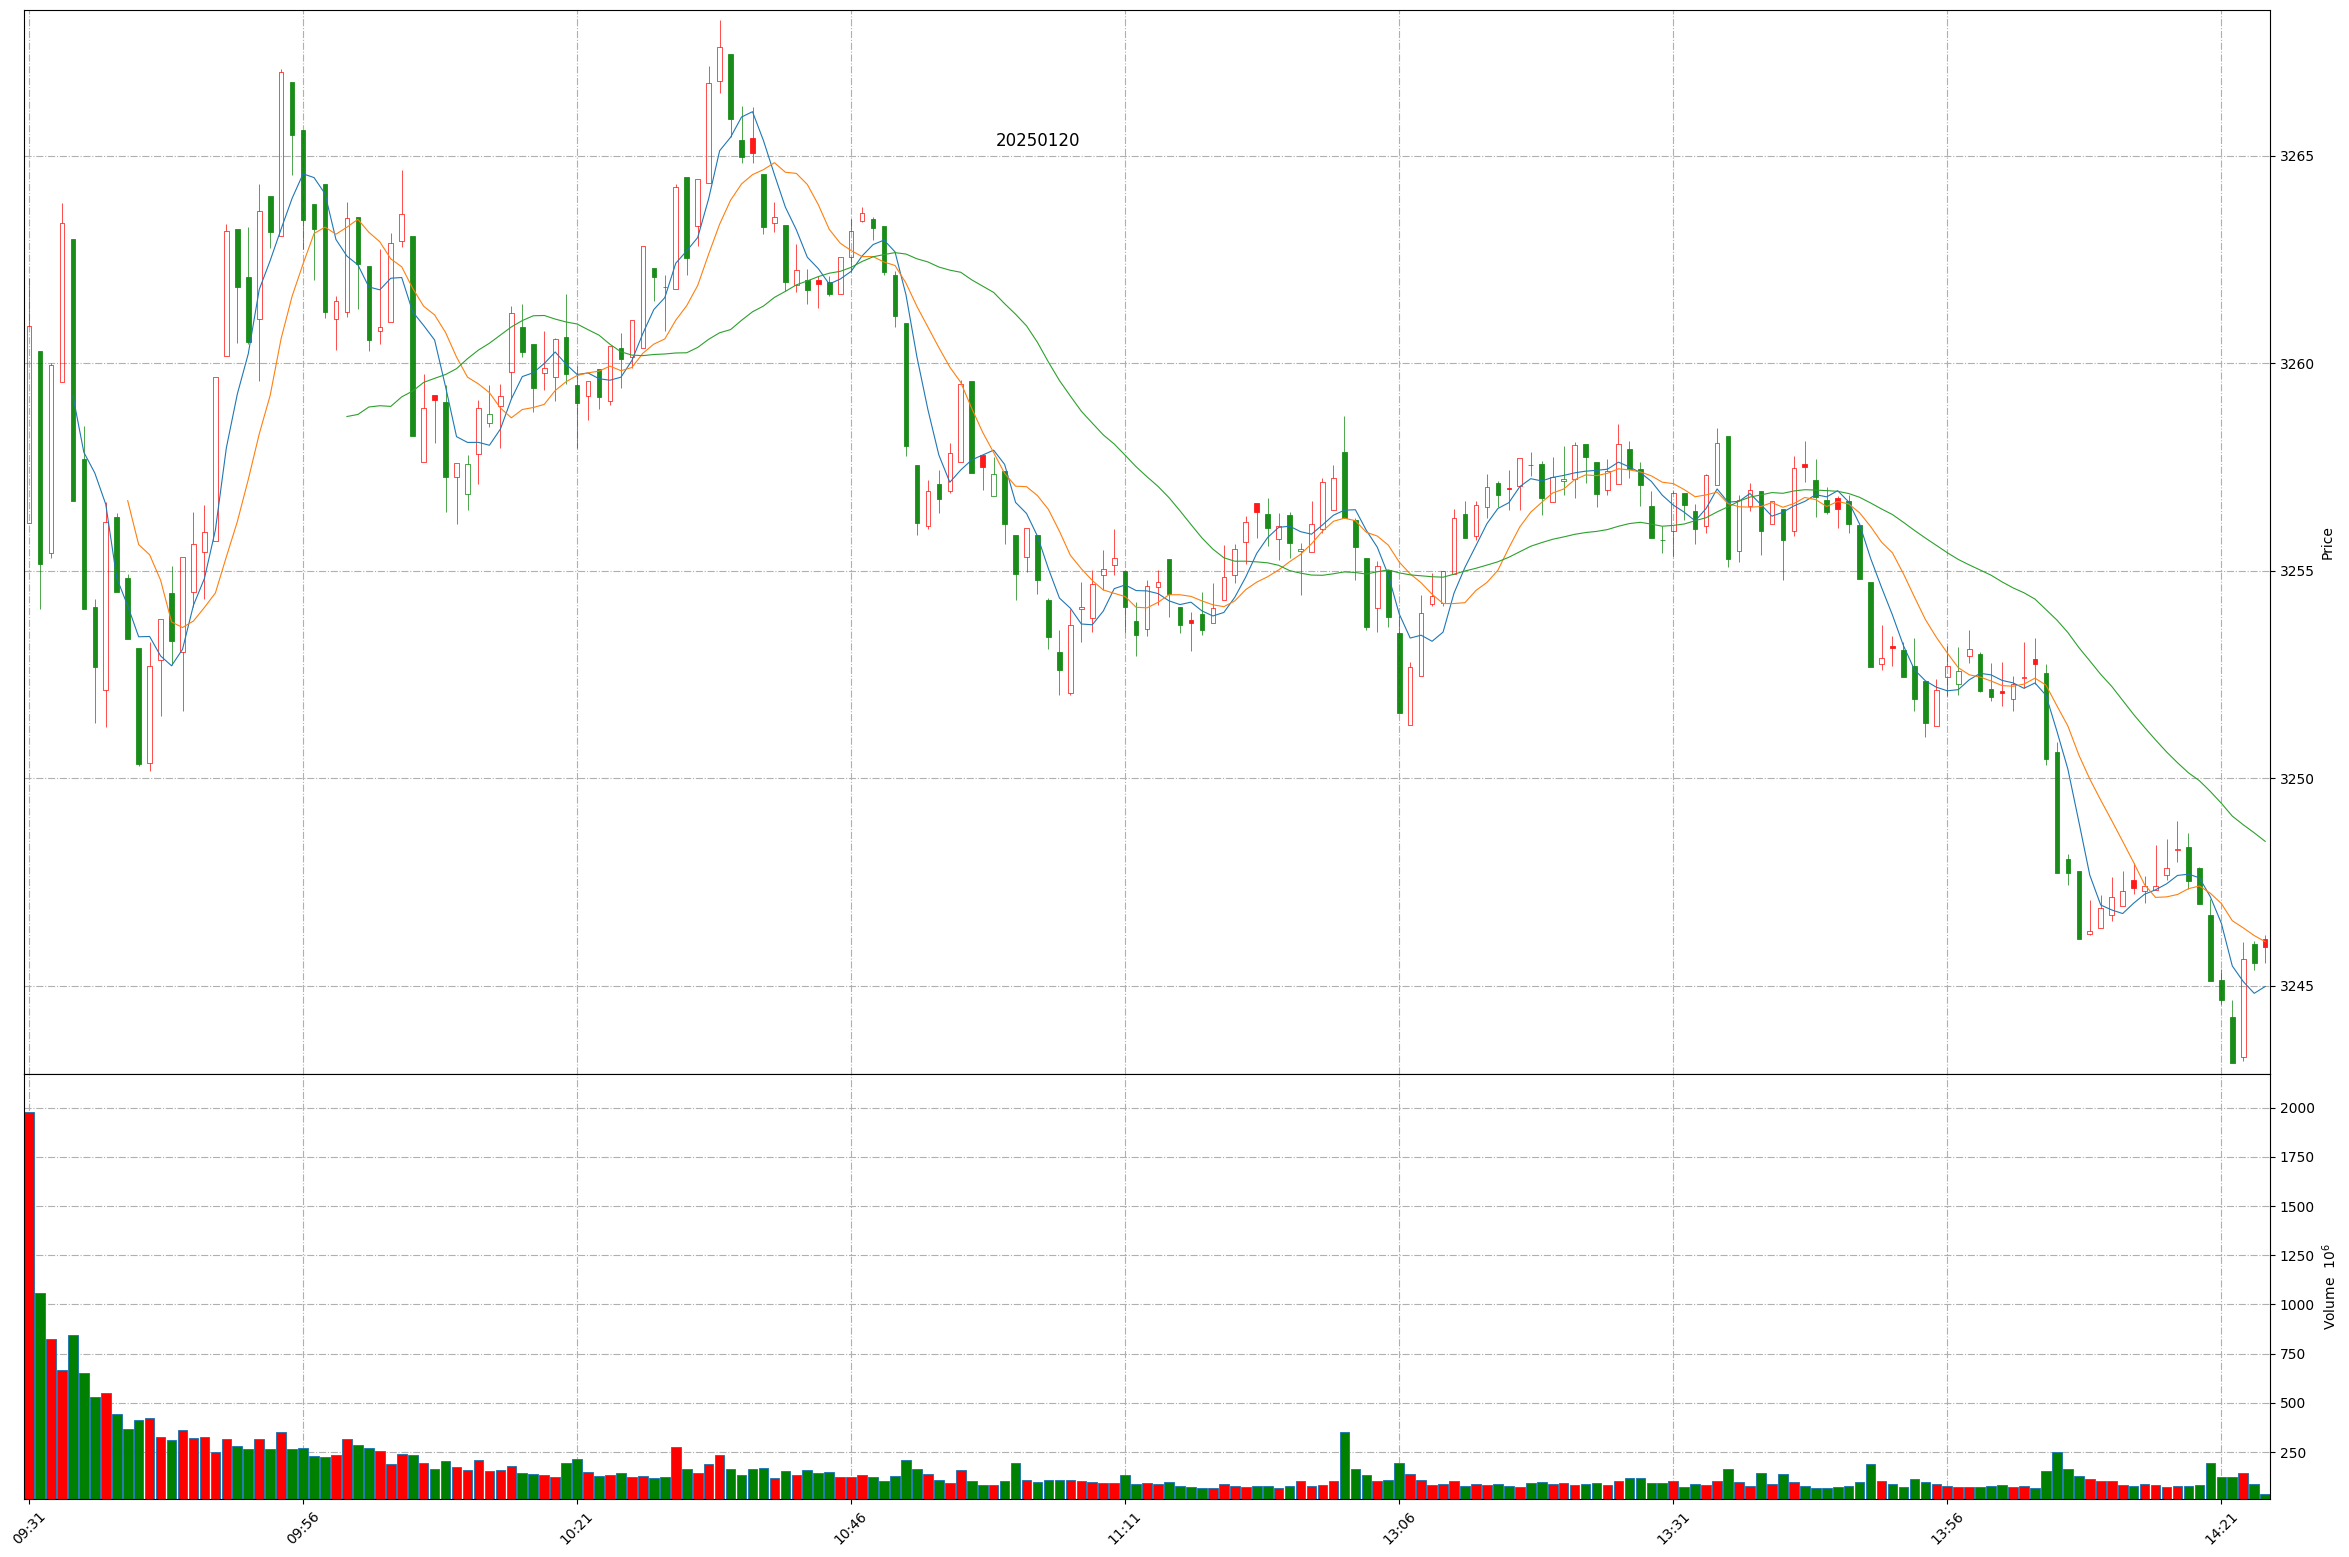
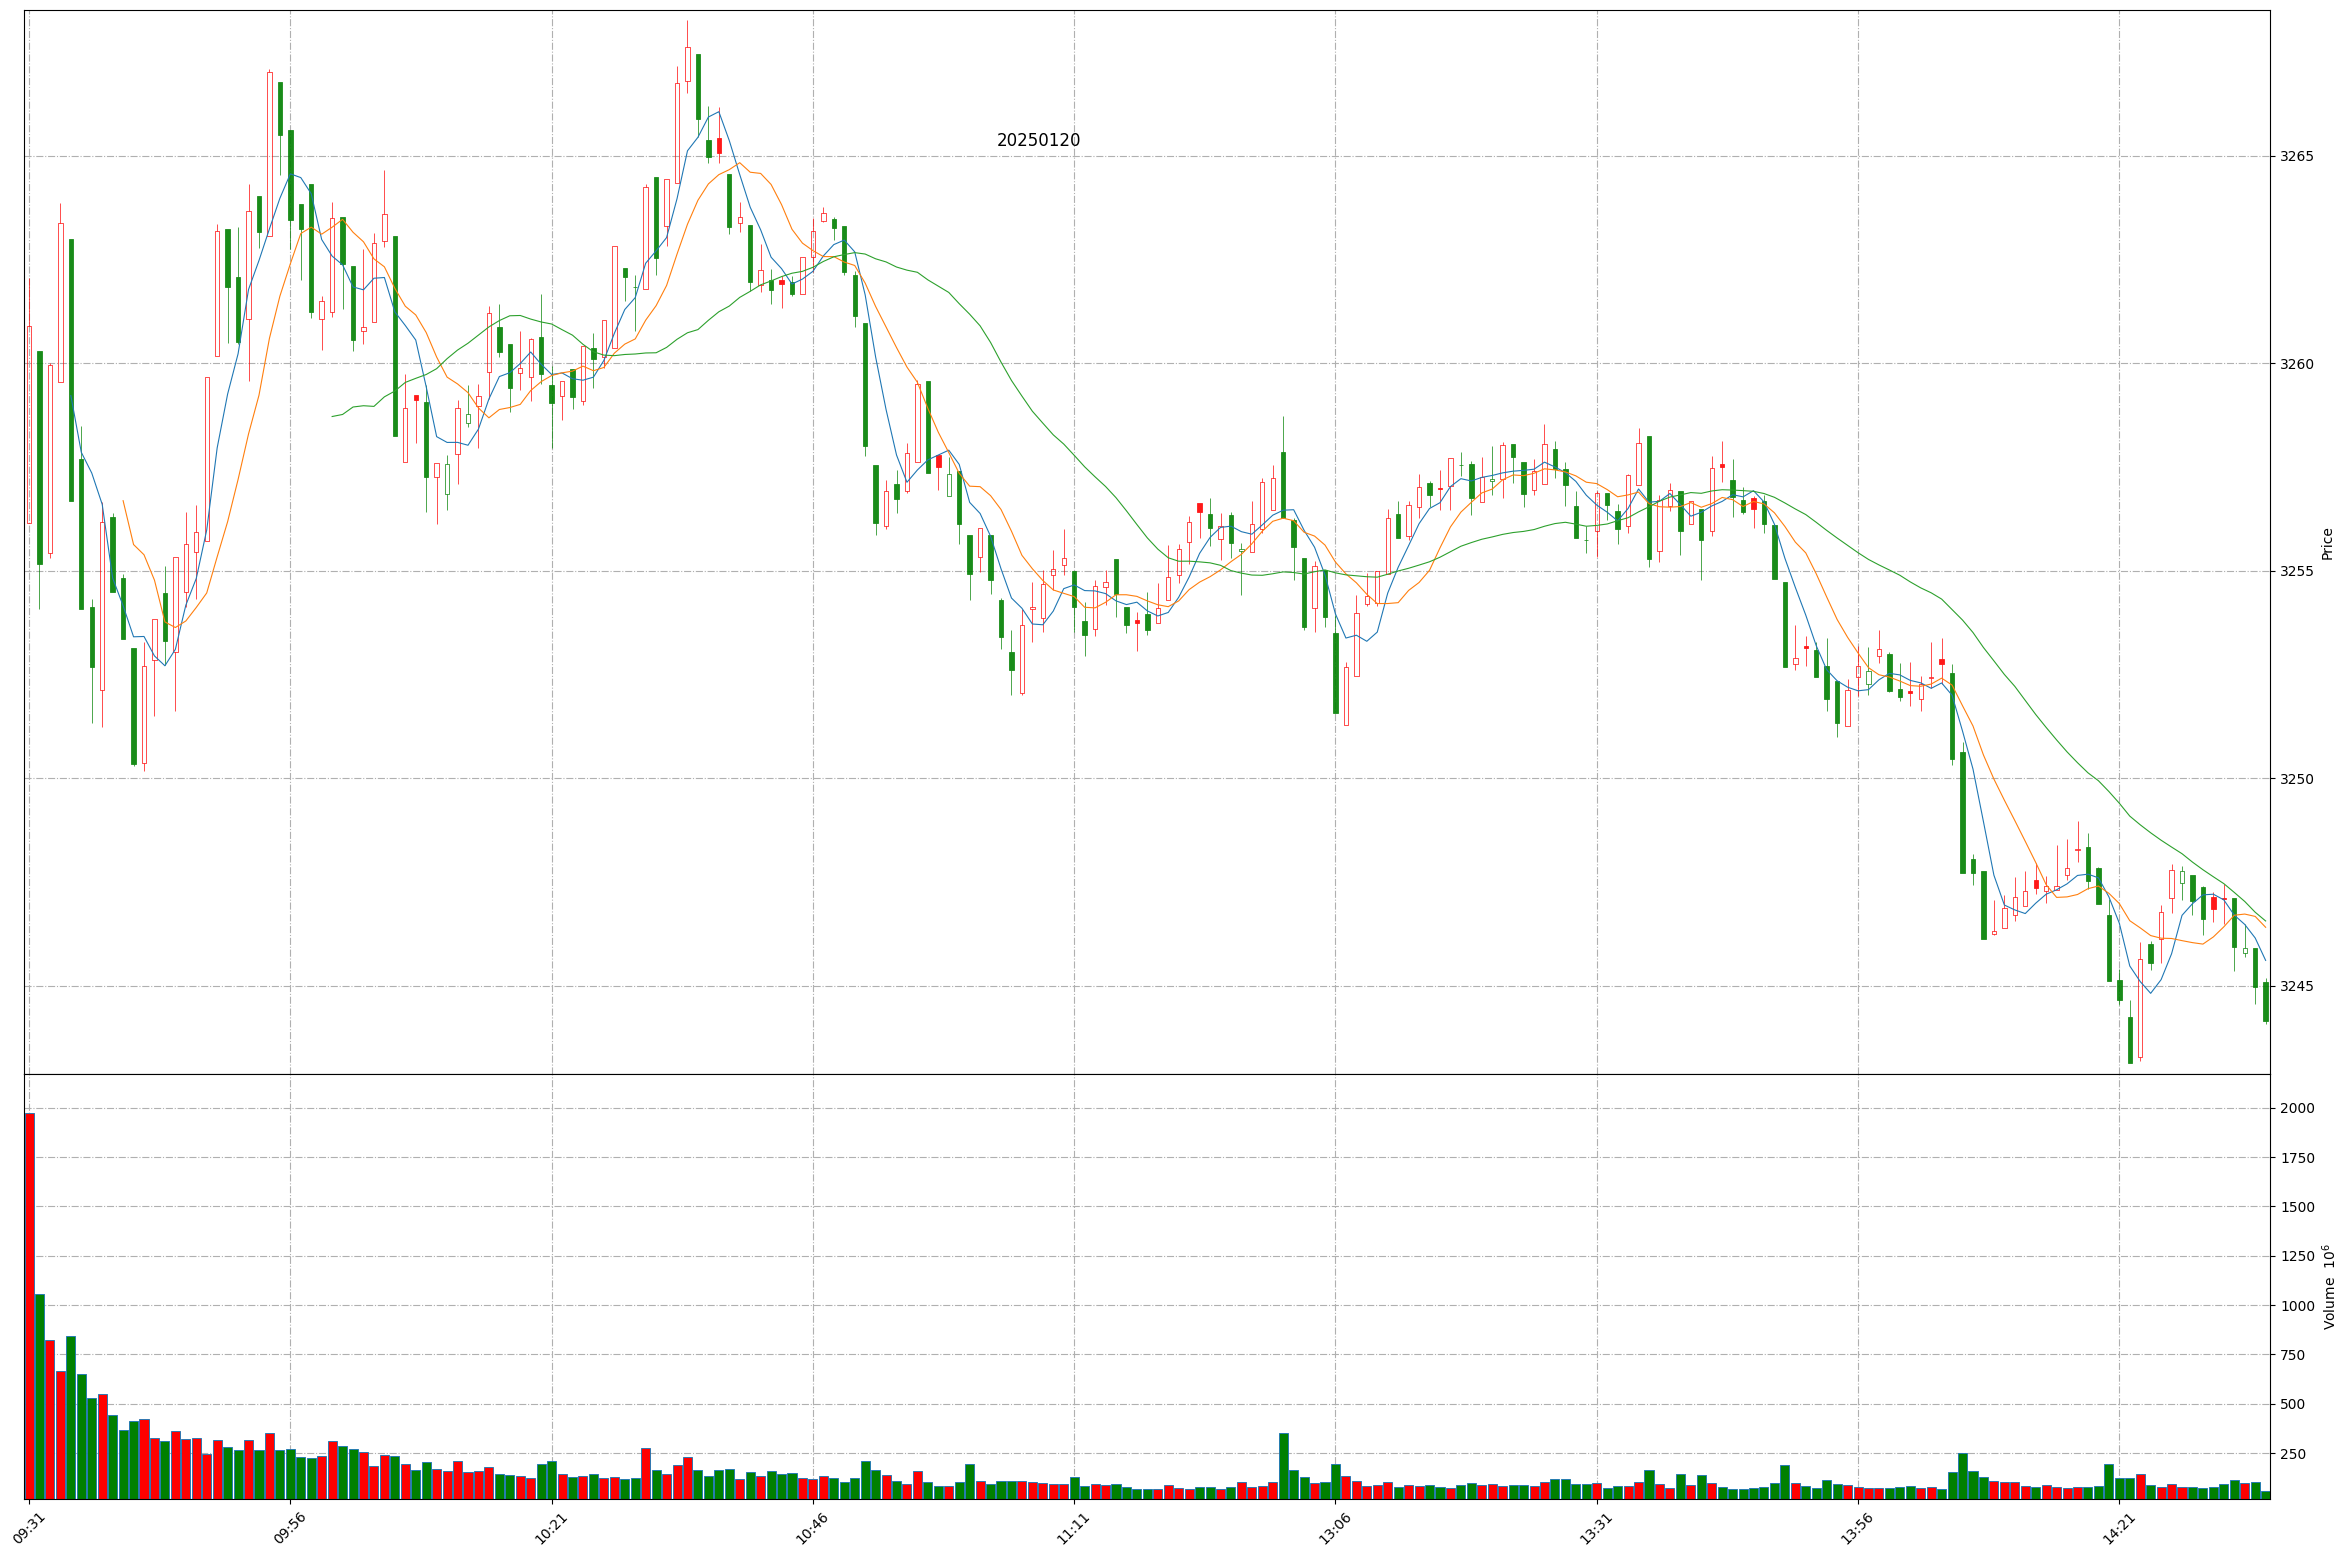
Github action update at 2025-01-20 14:34:59.

diff --git a/README.md b/README.md
@@ -1,11 +1,11 @@
 
 # Daily-A-share-market-quotes 每日 A 股指数（5min 更新）- 20250120
 
-### 上证指数 20250120 14:24
+### 上证指数 20250120 14:34
 ![](./fig/2025/1/20250120-sh000001.png)
 
-### 深证成指 20250120 14:24
+### 深证成指 20250120 14:34
 ![](./fig/2025/1/20250120-sz399001.png)
 
-### 北证50 20250120 14:24
+### 北证50 20250120 14:34
 ![](./fig/2025/1/20250120-bj899050.png)
